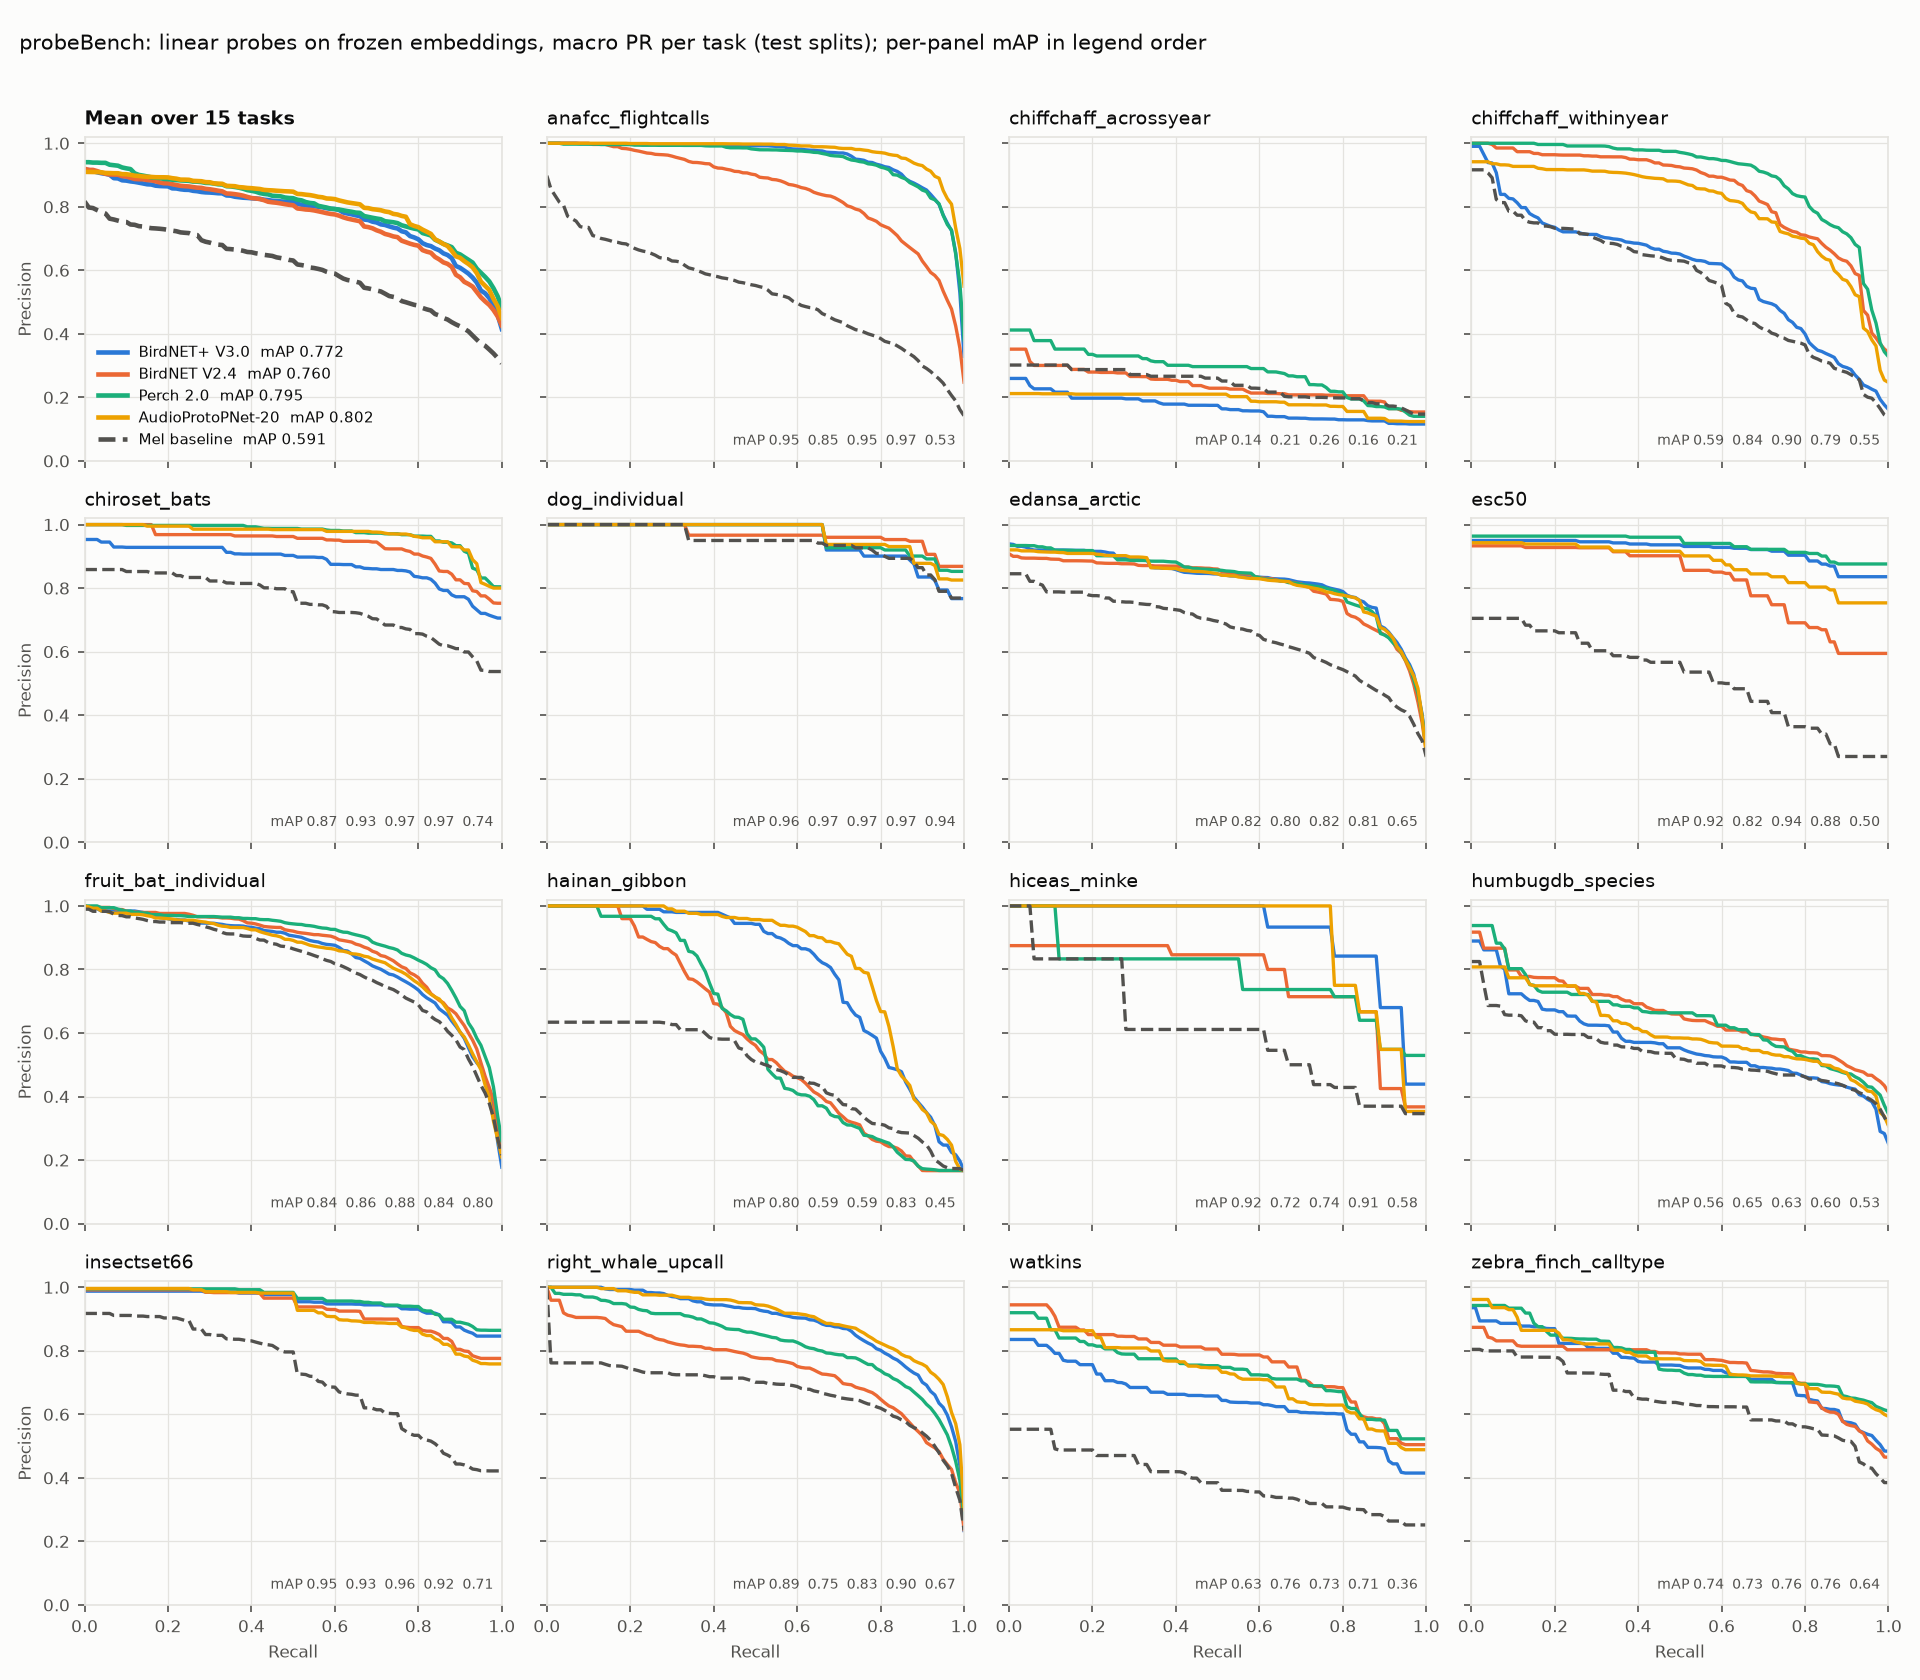
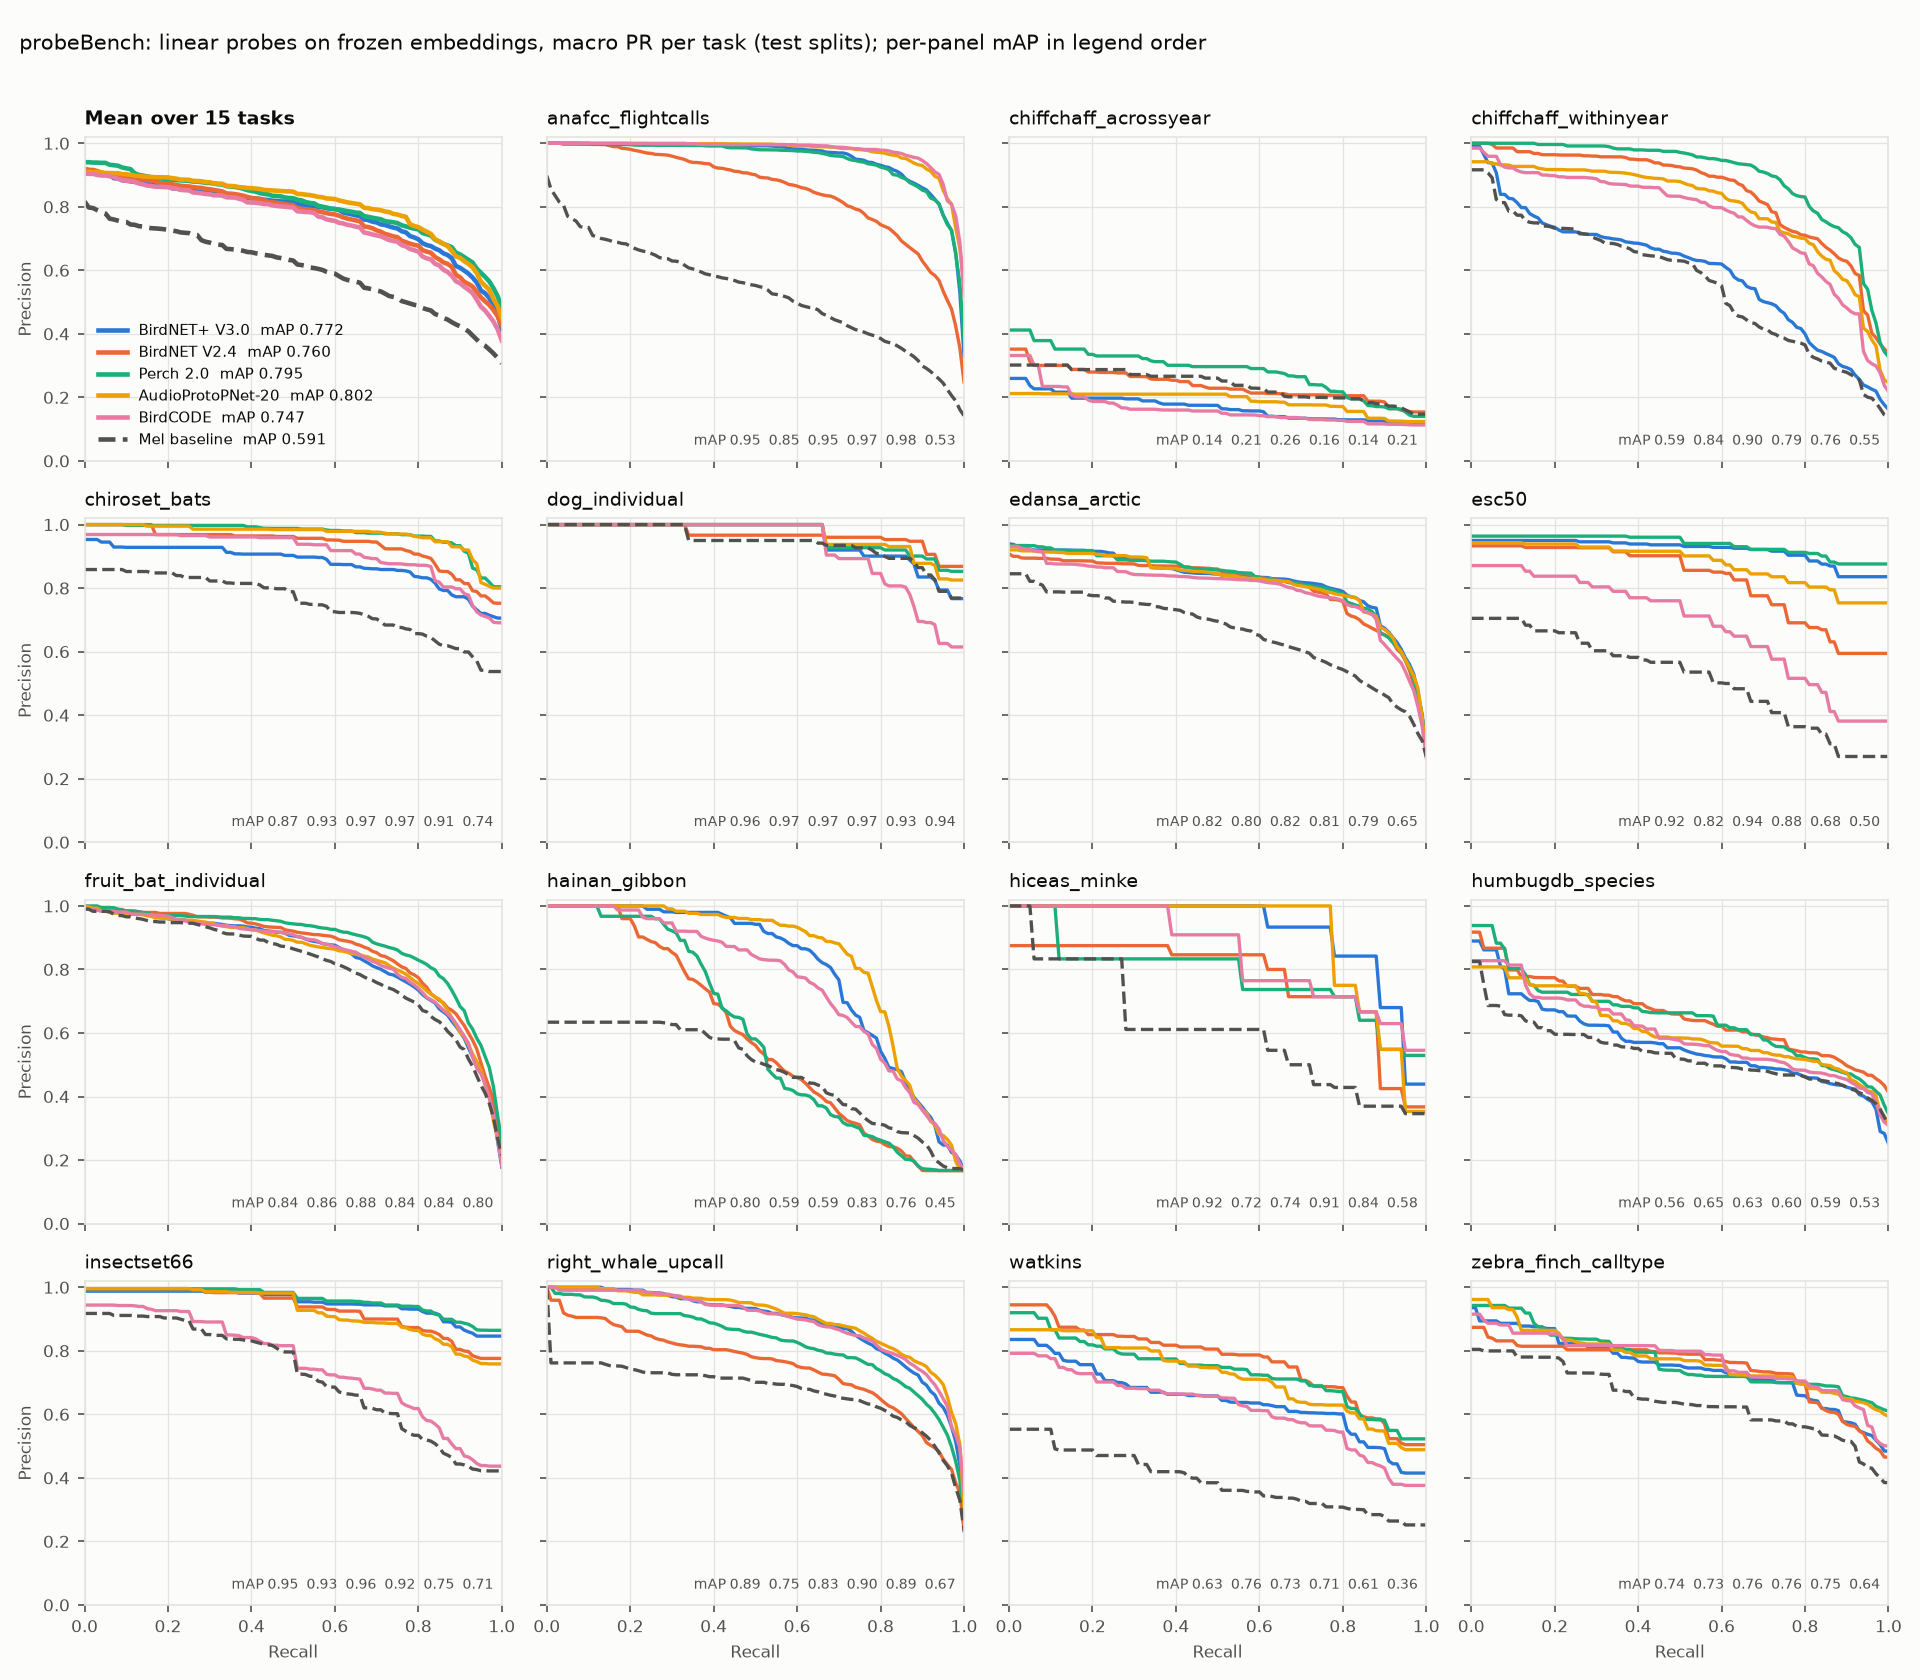
Add BirdCODE results on all 15 tasks
birdcode probes the global average of BirdCODE's ConvNeXt encoder feature map
(2,048 values), the map its detection head reads, with the same recipe as the
other models. New extra `birdcode` installs Earth Species Project's
sound-event-detection package from GitHub at the pinned commit the results were
made with (Python >= 3.12, CUDA GPU).

BirdCODE averages 0.728 over the 15 tasks (Perch 2.0 0.787, AudioProtoPNet-20
0.774, BirdNET+ V3.0 0.757, V2.4 0.752). It leads on flight calls (0.933) and is
close to the best on right whales and minke whales, but is weaker on ESC-50
(0.622) and InsectSet66 (0.737). The table and the PR figure now show six models.

diff --git a/src/probebench/models/protopnet.py b/src/probebench/models/protopnet.py
@@ -1,6 +1,6 @@
 """ConvNeXt encoders with a prototype head, probed at the encoder: the global average
-of the ConvNeXt feature map that the prototype layer compares with its prototypes
-(1,024 values), not the prototype similarities or class scores, so the probe sees
+of the ConvNeXt feature map that the prototype or detection head reads (1,024 values for
+AudioProtoPNet-20, 2,048 for BirdCODE), not the prototype similarities or class scores, so the probe sees
 the same kind of representation as for the other models.
 
     audioprotopnet-20  AudioProtoPNet-20 BirdSet XCL (Heinrich et al. 2025),

diff --git a/README.md b/README.md
@@ -46,6 +46,8 @@ cd probeBench
 pip install -e ".[v3]"       # BirdNET+ V3.0 (onnxruntime)
 pip install -e ".[v24]"      # BirdNET V2.4 (ai-edge-litert)
 pip install -e ".[perch]"    # Perch 2.0 (TensorFlow)
+pip install -e ".[audioprotopnet]"  # AudioProtoPNet-20 (torch, CUDA GPU)
+pip install -e ".[birdcode]" # BirdCODE (torch, CUDA GPU, Python >= 3.12)
 pip install -e ".[all]"      # all three
 ```
 
@@ -85,6 +87,7 @@ All data goes under one root: `--data <dir>`, else `$PROBEBENCH_DATA`, else
 | `birdnet-v2.4` | BirdNET V2.4 Global 6K, FP32 TFLite | [10.5281/zenodo.15050749](https://doi.org/10.5281/zenodo.15050749) | ai-edge-litert | 48 kHz, 3 s | `GLOBAL_AVG_POOL` tensor, 1,024 | CC BY-NC 4.0 |
 | `perch-v2` | Perch 2.0 (Google DeepMind), TensorFlow SavedModel | [Kaggle: google/bird-vocalization-classifier](https://www.kaggle.com/models/google/bird-vocalization-classifier) (`perch_v2` v2 for GPU, `perch_v2_cpu` v1) | TensorFlow | 32 kHz, 5 s | `embedding` output, 1,536 | Apache-2.0 |
 | `audioprotopnet-20` | AudioProtoPNet-20 BirdSet XCL (ConvNeXt-base + prototype head) | [Hugging Face: DBD-research-group/AudioProtoPNet-20-BirdSet-XCL](https://huggingface.co/DBD-research-group/AudioProtoPNet-20-BirdSet-XCL) | torch + transformers (GPU) | 32 kHz, 5 s | encoder feature map, global average, 1,024 | CC BY-NC 4.0 |
+| `birdcode` | BirdCODE (Earth Species Project), ConvNeXt sound event detector | [Hugging Face: EarthSpeciesProject/sed-birdcode](https://huggingface.co/EarthSpeciesProject/sed-birdcode) | torch + [sound-event-detection](https://github.com/earthspecies/sound-event-detection) (GPU, Python >= 3.12) | 32 kHz, 5 s | encoder feature map, global average, 2,048 | MIT |
 | `mel` | log-mel mean and standard deviation (no learning) | - | numpy / librosa | 24 kHz, 2.5 s | 256 | - |
 | `torchscript:<file.pt>` | any TorchScript model returning `(scores, embeddings)` | your file | torch (`.[torch]`) | 32 kHz, 3 s by default | second output | yours |
 | `py:<module>:<factory>` | your own adapter | your code | yours | yours | yours | yours |
@@ -93,14 +96,16 @@ The BirdNET files are fetched from Zenodo with the record's MD5 checked, Perch 2
 anonymously from Kaggle Models with the archive's size and MD5 pinned. BirdNET V2.4
 is licensed CC BY-NC 4.0: non-commercial use only.
 
-Prototype models (`audioprotopnet-20`) are probed at the
-encoder: the global average of the ConvNeXt feature map their prototype layer
-compares with its prototypes. Their prototype similarities and class scores are
-trained to their own classes, so the encoder feature is the
-representation comparable to the other models' embeddings. They need a CUDA GPU
+The ConvNeXt models (`audioprotopnet-20`, `birdcode`) are probed at the encoder:
+the global average of the ConvNeXt feature map that their prototype or detection
+head reads. Their prototype similarities and class scores are trained to their own
+classes, so the encoder feature is the representation comparable to the other
+models' embeddings. They need a CUDA GPU
 (fp16 autocast, batch `PROBEBENCH_TORCH_BATCH`, default 2); their Hugging Face
 files go to `<data>/models/huggingface` unless `HF_HUB_CACHE` is set. Install:
-`pip install -e ".[audioprotopnet]"` for AudioProtoPNet. AudioProtoPNet:
+`pip install -e ".[audioprotopnet]"` for AudioProtoPNet, `pip install -e ".[birdcode]"`
+for BirdCODE (installs `sound-event-detection` from GitHub at a pinned commit).
+AudioProtoPNet:
 Heinrich et al. 2025, "AudioProtoPNet: An interpretable deep learning model for
 bird sound classification", Ecological Informatics. Perch 2.0: van Merriënboer et
 al. 2025, "Perch 2.0: The Bittern Lesson for Bioacoustics".
@@ -110,24 +115,24 @@ al. 2025, "Perch 2.0: The Bittern Lesson for Bioacoustics".
 Headline metric per task on the test split (accuracy, macro-F1, macro mAP or AUC;
 higher is better); the mean is over all 15 tasks.
 
-| Task | Metric | BirdNET+ V3.0 | BirdNET V2.4 | Perch 2.0 | AudioProtoPNet-20 | Mel baseline |
-|---|---|---:|---:|---:|---:|---:|
-| anafcc_flightcalls | macro_f1 | 0.901 | 0.767 | 0.899 | 0.927 | 0.486 |
-| chiffchaff_acrossyear | accuracy | 0.105 | 0.175 | 0.210 | 0.095 | 0.175 |
-| chiffchaff_withinyear | accuracy | 0.623 | 0.685 | 0.761 | 0.716 | 0.492 |
-| chiroset_bats | macro_f1 | 0.769 | 0.835 | 0.886 | 0.895 | 0.647 |
-| dog_individual | accuracy | 0.914 | 0.957 | 0.940 | 0.957 | 0.862 |
-| edansa_arctic | map | 0.818 | 0.800 | 0.816 | 0.813 | 0.653 |
-| esc50 | accuracy | 0.880 | 0.809 | 0.906 | 0.828 | 0.453 |
-| fruit_bat_individual | accuracy | 0.758 | 0.790 | 0.815 | 0.773 | 0.735 |
-| hainan_gibbon | auc | 0.909 | 0.766 | 0.765 | 0.919 | 0.801 |
-| hiceas_minke | auc | 0.978 | 0.946 | 0.956 | 0.967 | 0.892 |
-| humbugdb_species | map | 0.560 | 0.646 | 0.634 | 0.599 | 0.525 |
-| insectset66 | accuracy | 0.923 | 0.883 | 0.937 | 0.860 | 0.640 |
-| right_whale_upcall | auc | 0.959 | 0.913 | 0.941 | 0.967 | 0.897 |
-| watkins | accuracy | 0.613 | 0.648 | 0.628 | 0.573 | 0.402 |
-| zebra_finch_calltype | macro_f1 | 0.649 | 0.658 | 0.714 | 0.725 | 0.559 |
-| **Mean (15 tasks)** | | **0.757** | **0.752** | **0.787** | **0.774** | **0.615** |
+| Task | Metric | BirdNET+ V3.0 | BirdNET V2.4 | Perch 2.0 | AudioProtoPNet-20 | BirdCODE | Mel baseline |
+|---|---|---:|---:|---:|---:|---:|---:|
+| anafcc_flightcalls | macro_f1 | 0.901 | 0.767 | 0.899 | 0.927 | 0.933 | 0.486 |
+| chiffchaff_acrossyear | accuracy | 0.105 | 0.175 | 0.210 | 0.095 | 0.125 | 0.175 |
+| chiffchaff_withinyear | accuracy | 0.623 | 0.685 | 0.761 | 0.716 | 0.737 | 0.492 |
+| chiroset_bats | macro_f1 | 0.769 | 0.835 | 0.886 | 0.895 | 0.734 | 0.647 |
+| dog_individual | accuracy | 0.914 | 0.957 | 0.940 | 0.957 | 0.871 | 0.862 |
+| edansa_arctic | map | 0.818 | 0.800 | 0.816 | 0.813 | 0.791 | 0.653 |
+| esc50 | accuracy | 0.880 | 0.809 | 0.906 | 0.828 | 0.622 | 0.453 |
+| fruit_bat_individual | accuracy | 0.758 | 0.790 | 0.815 | 0.773 | 0.767 | 0.735 |
+| hainan_gibbon | auc | 0.909 | 0.766 | 0.765 | 0.919 | 0.903 | 0.801 |
+| hiceas_minke | auc | 0.978 | 0.946 | 0.956 | 0.967 | 0.967 | 0.892 |
+| humbugdb_species | map | 0.560 | 0.646 | 0.634 | 0.599 | 0.589 | 0.525 |
+| insectset66 | accuracy | 0.923 | 0.883 | 0.937 | 0.860 | 0.737 | 0.640 |
+| right_whale_upcall | auc | 0.959 | 0.913 | 0.941 | 0.967 | 0.963 | 0.897 |
+| watkins | accuracy | 0.613 | 0.648 | 0.628 | 0.573 | 0.548 | 0.402 |
+| zebra_finch_calltype | macro_f1 | 0.649 | 0.658 | 0.714 | 0.725 | 0.641 | 0.559 |
+| **Mean (15 tasks)** | | **0.757** | **0.752** | **0.787** | **0.774** | **0.728** | **0.615** |
 
 ![Mean and per-task precision-recall curves](results/probe_bench_pr.png)
 
@@ -141,11 +146,13 @@ the table within 0.01 (V3.0 0.888 and 0.613, V2.4 0.809 and 0.658).
 
 Perch 2.0 has the best mean headline metric (0.787), AudioProtoPNet-20 is second
 (0.774) and has the best mean average precision in the figure (0.802); BirdNET+
-V3.0 and V2.4 tie (0.757 and 0.752). Perch 2.0 leads on individual identity and
-species tasks (chiffchaffs, fruit bats, ESC-50, insects), AudioProtoPNet-20 on
-flight calls, bats, gibbons, right whales and zebra finch call types, V3.0 on
-Arctic soundscapes and minke whales, and V2.4 on dogs (tied), mosquitoes and
-marine mammal species.
+V3.0 and V2.4 tie (0.757 and 0.752), and BirdCODE follows (0.728). Perch 2.0 leads
+on individual identity and species tasks (chiffchaffs, fruit bats, ESC-50,
+insects), AudioProtoPNet-20 on bats, gibbons, right whales and zebra finch call
+types, BirdCODE on flight calls, V3.0 on Arctic soundscapes and minke whales, and
+V2.4 on dogs (tied), mosquitoes and marine mammal species. BirdCODE is close to the
+best on bird and whale calls but weaker on general sound and insects (ESC-50 0.622,
+InsectSet66 0.737).
 
 ## Tasks
 

diff --git a/CHANGELOG.md b/CHANGELOG.md
@@ -25,6 +25,7 @@ and this project adheres to [Semantic Versioning](https://semver.org/spec/v2.0.0
   downloaded anonymously on first use (GPU or CPU variant), 5 s windows, 1,536-value
   embedding; extra `perch`. Perch 2.0 results for all 15 tasks are in `results/`.
 - AudioProtoPNet-20 BirdSet XCL adapter (`audioprotopnet-20`, Hugging Face, GPU), probed at the global-average-pooled ConvNeXt encoder output; results for all 15 tasks in `results/`.
+- BirdCODE adapter (`birdcode`, Earth Species Project, Hugging Face, GPU, extra `birdcode`), probed at the global-average-pooled ConvNeXt encoder output (2,048 values); results for all 15 tasks in `results/`.
 - Project scaffolding: LICENSE.md with the data and model license scope,
   CITATION.cff, code of conduct, security and acceptable-use policies,
   pre-commit hooks, and the README's license, citation, funding and partner sections.
